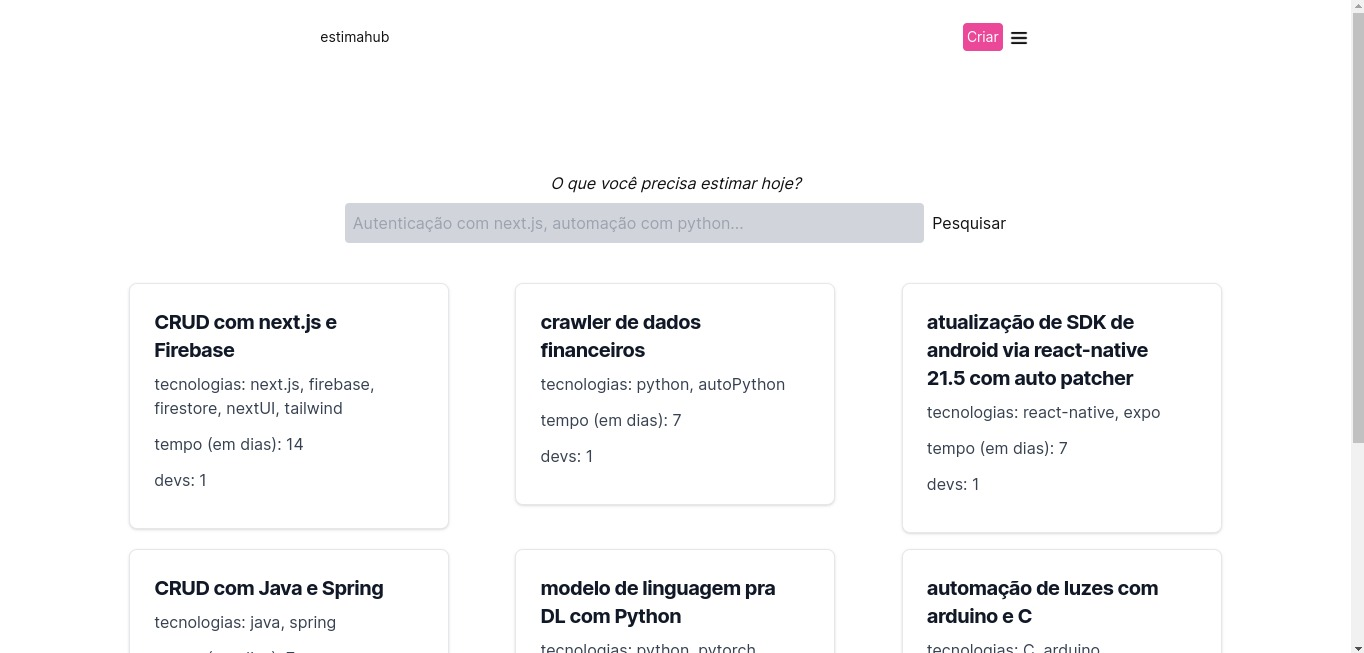
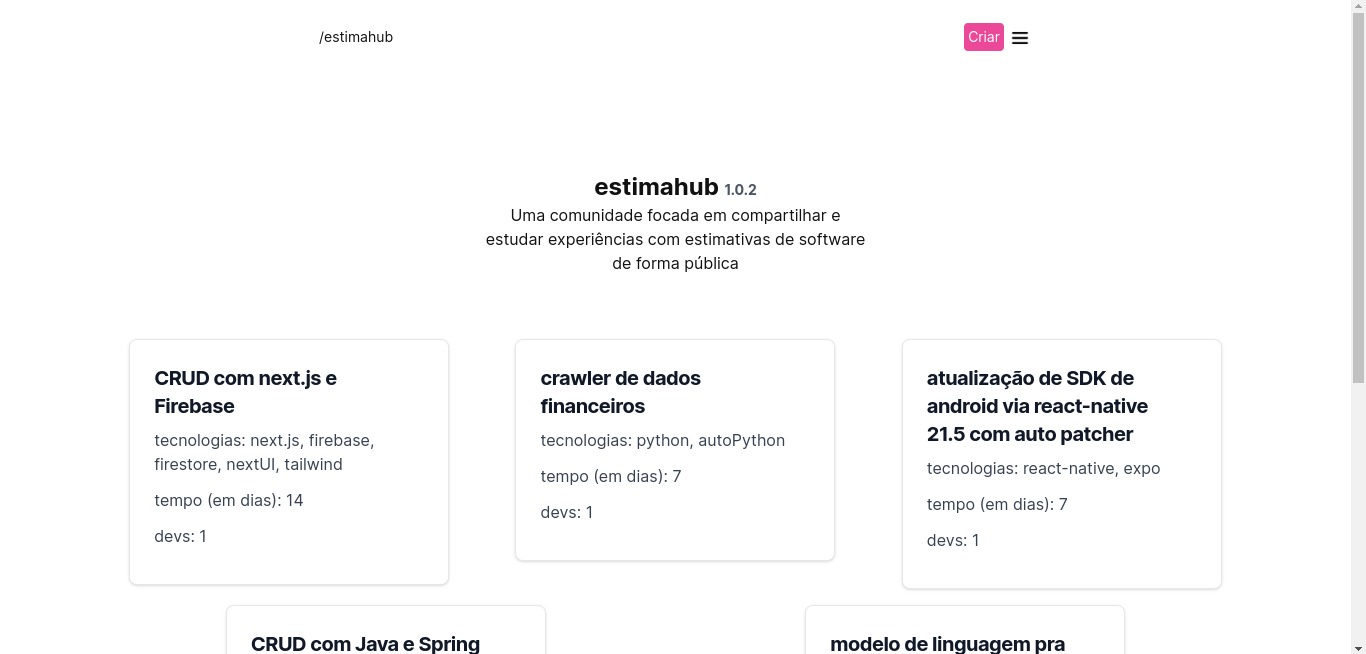
New CHANGELOG.md file, refactor at homepage and new components to UI

diff --git a/src/app/terms-of-use/page.js b/src/app/terms-of-use/page.js
@@ -1,0 +1,25 @@
+import { Header } from "@/components/Header";
+
+export default function MotivationPage() {
+    return (
+        <>
+            <Header />
+            <article>
+                <div className="container mx-auto py-5">
+                    <p className="text-xl">Termos de uso</p>
+                    <p>Lorem ipsum dolor sit amet consectetur adipisicing elit. Ipsa, debitis quam, maxime labore nesciunt dolores rem culpa cupiditate illo quo dolor reiciendis itaque quas aspernatur necessitatibus commodi deleniti eum hic.</p>
+                    <p>Lorem ipsum dolor sit amet consectetur adipisicing elit. Ipsa, debitis quam, maxime labore nesciunt dolores rem culpa cupiditate illo quo dolor reiciendis itaque quas aspernatur necessitatibus commodi deleniti eum hic.</p>
+                    <p>Lorem ipsum dolor sit amet consectetur adipisicing elit. Ipsa, debitis quam, maxime labore nesciunt dolores rem culpa cupiditate illo quo dolor reiciendis itaque quas aspernatur necessitatibus commodi deleniti eum hic.</p>
+                    <p>Lorem ipsum dolor sit amet consectetur adipisicing elit. Ipsa, debitis quam, maxime labore nesciunt dolores rem culpa cupiditate illo quo dolor reiciendis itaque quas aspernatur necessitatibus commodi deleniti eum hic.</p>
+                    <p>Lorem ipsum dolor sit amet consectetur adipisicing elit. Ipsa, debitis quam, maxime labore nesciunt dolores rem culpa cupiditate illo quo dolor reiciendis itaque quas aspernatur necessitatibus commodi deleniti eum hic.</p>
+                    <p>Lorem ipsum dolor sit amet consectetur adipisicing elit. Ipsa, debitis quam, maxime labore nesciunt dolores rem culpa cupiditate illo quo dolor reiciendis itaque quas aspernatur necessitatibus commodi deleniti eum hic.</p>
+                    <p>Lorem ipsum dolor sit amet consectetur adipisicing elit. Ipsa, debitis quam, maxime labore nesciunt dolores rem culpa cupiditate illo quo dolor reiciendis itaque quas aspernatur necessitatibus commodi deleniti eum hic.</p>
+                    <p>Lorem ipsum dolor sit amet consectetur adipisicing elit. Ipsa, debitis quam, maxime labore nesciunt dolores rem culpa cupiditate illo quo dolor reiciendis itaque quas aspernatur necessitatibus commodi deleniti eum hic.</p>
+                    <p>Lorem ipsum dolor sit amet consectetur adipisicing elit. Ipsa, debitis quam, maxime labore nesciunt dolores rem culpa cupiditate illo quo dolor reiciendis itaque quas aspernatur necessitatibus commodi deleniti eum hic.</p>
+                </div>
+            </article>
+
+        </>
+
+    )
+}

diff --git a/src/app/page.js b/src/app/page.js
@@ -4,6 +4,7 @@ import { Estimatives } from "@/components/Estimatives";
 import { Header } from '@/components/Header';
 import { Button } from "@nextui-org/react";
 import { useRouter } from 'next/navigation';
+import React from 'react';
 
 export default function Home() {
   const router = useRouter();
@@ -13,23 +14,16 @@ export default function Home() {
       <Header/>
       <main className="flex flex-col justify-center items-center p-24">
         <div className="container mx-auto text-center">
-          <section className="mb-10">
+          <section className="mb-16">
             <div className="flex flex-col items-center justify-center">
-              <h1 className="mb-2 italic">O que você precisa estimar hoje?</h1>
-              <div className="w-full">
-                <input
-                  type="text"
-                  placeholder="Autenticação com next.js, automação com python..."
-                  className="bg-gray-300 text-black p-2 rounded w-full md:w-1/2"
-                />
-                <button className="ml-2 w-full md:w-auto">Pesquisar</button>
-              </div>
+              <h1 className="text-2xl font-bold">estimahub <span className="text-sm text-gray-600">1.0.2</span></h1>
+              <p className="w-96 text-center">Uma comunidade focada em compartilhar e estudar experiências com estimativas de software de forma pública</p>
             </div>
           </section>
 
           <section>
             <Estimatives limit={9}/>
-            <Button onClick={() => { router.push('/all')}}>Veja mais</Button>
+            <Button onClick={() => { router.push('/estimatives')}}>Veja mais</Button>
           </section>
         </div>
       </main>

diff --git a/src/components/Footer/index.js b/src/components/Footer/index.js
@@ -1,10 +1,21 @@
+import Link from 'next/link'
+
 export const Footer = () => {
     return (
-        <div className="text-center bottom-0 left-0 w-full relative">
-            <p className="text-sm">
-                Desenvolvido com muito ☕ por
-                <a className="ml-1 underline" target="_blank" href="https://github.com/henriquesss">Lucas Henriques</a> 
-            </p>
+        <div className="text-center py-6 bottom-0 left-0 w-full relative bg-gray-200">
+            <div className='w-1/3 mx-auto'>
+                <div className="flex flex-row justify-around flex-wrap mb-2">
+                    <Link className="underline" href="/motivation">Motivação</Link>
+                    <a className="underline" href="https://github.com/henriquesss/estimahub" target='_blank'>Github</a>
+                    <Link className="underline" href="/contact">Contato</Link>
+                    <Link className="underline" href="/status">Status</Link>
+                    <Link className="underline" href="/terms-of-use">Termos de uso</Link>
+                </div>
+                <p className='text-sm'>
+                    Desenvolvido com muito ☕ por
+                    <a className="ml-1 underline" target="_blank" href="https://github.com/henriquesss">Lucas Henriques</a> 
+                </p>
+            </div>
         </div>
     )
 }

diff --git a/src/app/status/page.js b/src/app/status/page.js
@@ -1,12 +1,12 @@
 import { Header } from "@/components/Header";
 
-export default function ManifestPage() {
+export default function StatusPage() {
     return (
         <>
             <Header />
             <article>
                 <div className="container mx-auto py-5">
-                    <p className="text-xl">Texto do manifesto</p>
+                    <p className="text-xl">Status da plataforma</p>
                     <p>Lorem ipsum dolor sit amet consectetur adipisicing elit. Ipsa, debitis quam, maxime labore nesciunt dolores rem culpa cupiditate illo quo dolor reiciendis itaque quas aspernatur necessitatibus commodi deleniti eum hic.</p>
                     <p>Lorem ipsum dolor sit amet consectetur adipisicing elit. Ipsa, debitis quam, maxime labore nesciunt dolores rem culpa cupiditate illo quo dolor reiciendis itaque quas aspernatur necessitatibus commodi deleniti eum hic.</p>
                     <p>Lorem ipsum dolor sit amet consectetur adipisicing elit. Ipsa, debitis quam, maxime labore nesciunt dolores rem culpa cupiditate illo quo dolor reiciendis itaque quas aspernatur necessitatibus commodi deleniti eum hic.</p>

diff --git a/src/app/motivation/page.js b/src/app/motivation/page.js
@@ -1,0 +1,19 @@
+import { Header } from "@/components/Header";
+
+export default function MotivationPage() {
+    return (
+        <>
+            <Header />
+            <article>
+                <div className="container mx-auto py-5">
+                    <p className="text-xl">Motivação</p>
+                    <p>Lorem ipsum dolor sit amet consectetur adipisicing elit. Ipsa, debitis quam, maxime labore nesciunt dolores rem culpa cupiditate illo quo dolor reiciendis itaque quas aspernatur necessitatibus commodi deleniti eum hic.</p>
+                    <p>Lorem ipsum dolor sit amet consectetur adipisicing elit. Ipsa, debitis quam, maxime labore nesciunt dolores rem culpa cupiditate illo quo dolor reiciendis itaque quas aspernatur necessitatibus commodi deleniti eum hic.</p>
+                    <p>Lorem ipsum dolor sit amet consectetur adipisicing elit. Ipsa, debitis quam, maxime labore nesciunt dolores rem culpa cupiditate illo quo dolor reiciendis itaque quas aspernatur necessitatibus commodi deleniti eum hic.</p>
+                </div>
+            </article>
+
+        </>
+
+    )
+}

diff --git a/src/app/contact/page.js b/src/app/contact/page.js
@@ -1,0 +1,19 @@
+import { Header } from "@/components/Header";
+
+export default function ContactPage() {
+    return (
+        <>
+            <Header />
+            <article>
+                <div className="container mx-auto py-5">
+                    <p className="text-xl">Contato</p>
+                    <p>Lorem ipsum dolor sit amet consectetur adipisicing elit. Ipsa, debitis quam, maxime labore nesciunt dolores rem culpa cupiditate illo quo dolor reiciendis itaque quas aspernatur necessitatibus commodi deleniti eum hic.</p>
+                    <p>Lorem ipsum dolor sit amet consectetur adipisicing elit. Ipsa, debitis quam, maxime labore nesciunt dolores rem culpa cupiditate illo quo dolor reiciendis itaque quas aspernatur necessitatibus commodi deleniti eum hic.</p>
+                    <p>Lorem ipsum dolor sit amet consectetur adipisicing elit. Ipsa, debitis quam, maxime labore nesciunt dolores rem culpa cupiditate illo quo dolor reiciendis itaque quas aspernatur necessitatibus commodi deleniti eum hic.</p>
+                </div>
+            </article>
+
+        </>
+
+    )
+}

diff --git a/src/app/estimatives/page.js b/src/app/estimatives/page.js
@@ -3,14 +3,14 @@
 import { Estimatives } from "@/components/Estimatives";
 import { Header } from '@/components/Header';
 
-export default function All() {
+export default function EstimativesPage() {
     return (
         <>
             <Header />
             <main className="flex flex-col justify-center items-center p-24">
                 <div className="container mx-auto text-center">
                     <section>
-                        <Estimatives />
+                        <Estimatives/>
                     </section>
                 </div>
             </main>

diff --git a/src/app/layout.js b/src/app/layout.js
@@ -1,6 +1,7 @@
 import { Inter } from 'next/font/google';
 import './globals.css';
 import { AuthProvider } from '../contexts/AuthContext';
+import { Footer } from '@/components/Footer';
 
 const inter = Inter({ subsets: ['latin'] })
 
@@ -14,6 +15,7 @@ export default function RootLayout({ children }) {
       <html lang="en">
           <AuthProvider>
             <body className={inter.className}>{children}</body>
+            <Footer/>
           </AuthProvider>
       </html>
   )

diff --git a/src/components/Header/index.js b/src/components/Header/index.js
@@ -32,7 +32,7 @@ export const Header = () => {
             />
             <div className="flex justify-around items-center">
                 <div>
-                    <Link href="/">estimahub</Link>
+                    <Link href="/">/estimahub</Link>
                 </div>
 
                 <div className="flex flex-row items-center">

diff --git a/CHANGELOG.md b/CHANGELOG.md
@@ -1,0 +1,30 @@
+# Changelog
+
+All notable changes to this project will be documented in this file.
+
+The format is based on [Keep a Changelog](https://keepachangelog.com/en/1.1.0/),
+and this project adheres to [Semantic Versioning](https://semver.org/spec/v2.0.0.html).
+
+## [1.0.2] - 2023-12-19
+
+### Updated
+- The search bar at home screen was removed because i discover the firebase doesen't make text searches, only with Algolia or similar libs.
+
+### Created
+- A full Footer for the platform
+- Mock pages for footer links
+
+## [1.0.1] - 2023-12-16
+
+### Updated
+
+- Update project version. Only hehe.
+
+## [1.0.0] - 2023-12-15
+
+### Created
+- Basic UI, design patterns and responsive layout
+- Basic authentication (only with Firebase auth system)
+- Config and implementation of Firebase
+- CRUD of estimatives with Firestore
+- Account page with user's estimatives

diff --git a/README.md b/README.md
@@ -40,8 +40,8 @@ First of all, create and account at Firebase (if you don't have), create a proje
 ### Clone the repository and setup enviroment:
 
    ```bash
-   git clone https://github.com/your-username/your-project.git
-   cd your-project
+   git clone https://github.com/henriquesss/estimahub
+   cd estimahub
    nvm use (to align your node version)
    npm install 
 ```
@@ -50,4 +50,4 @@ First of all, create and account at Firebase (if you don't have), create a proje
 Be free to send PR with the github pattern. 
 
 ### License
-This project is licensed under the MIT License
+This project is licensed under the MIT License.
